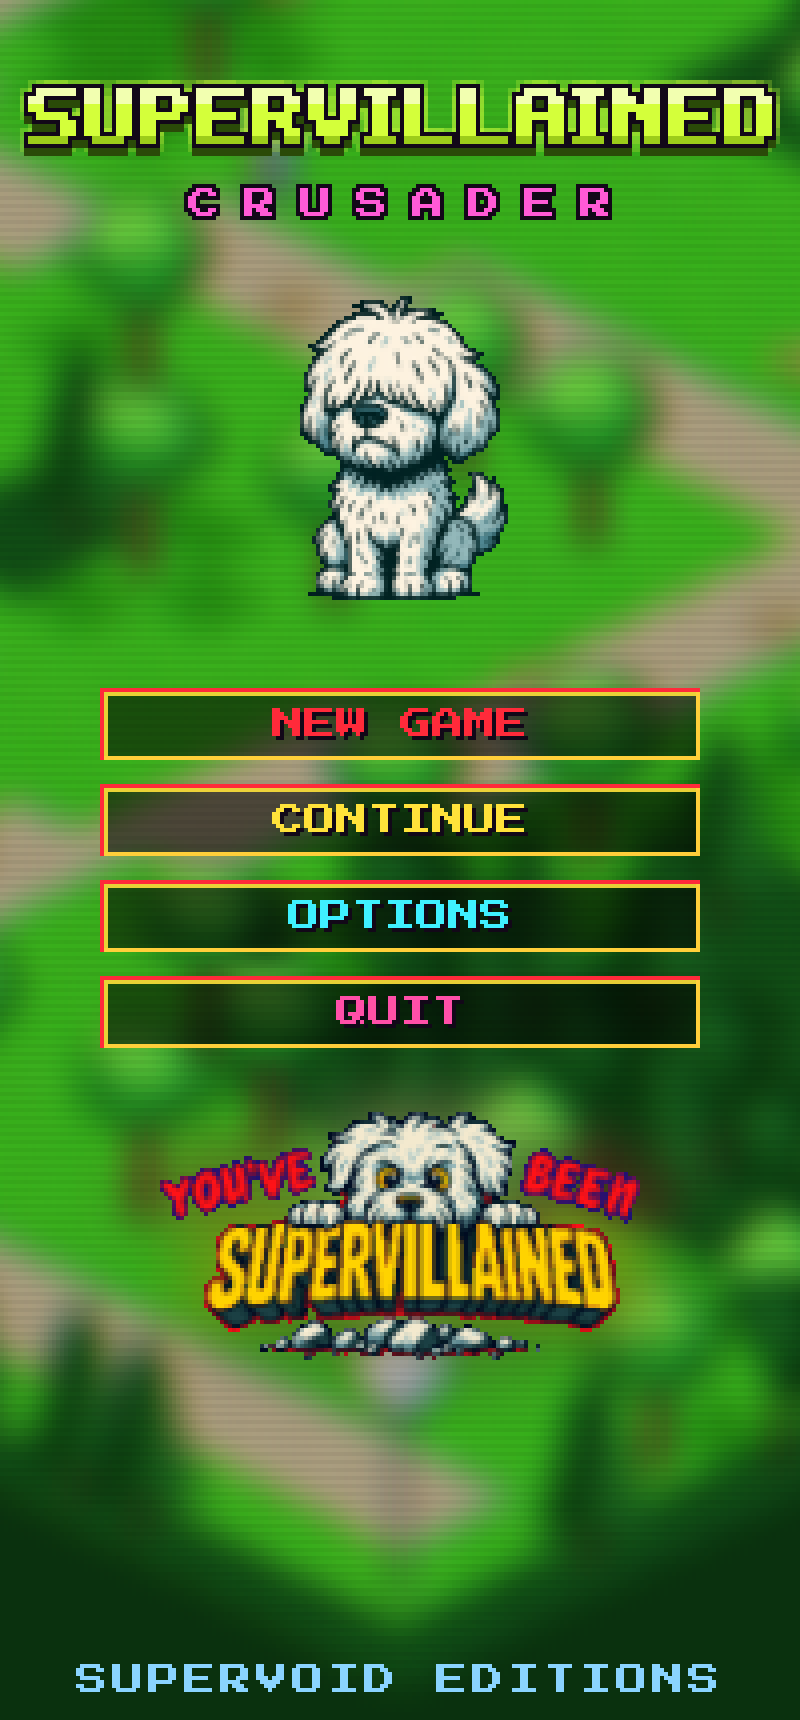
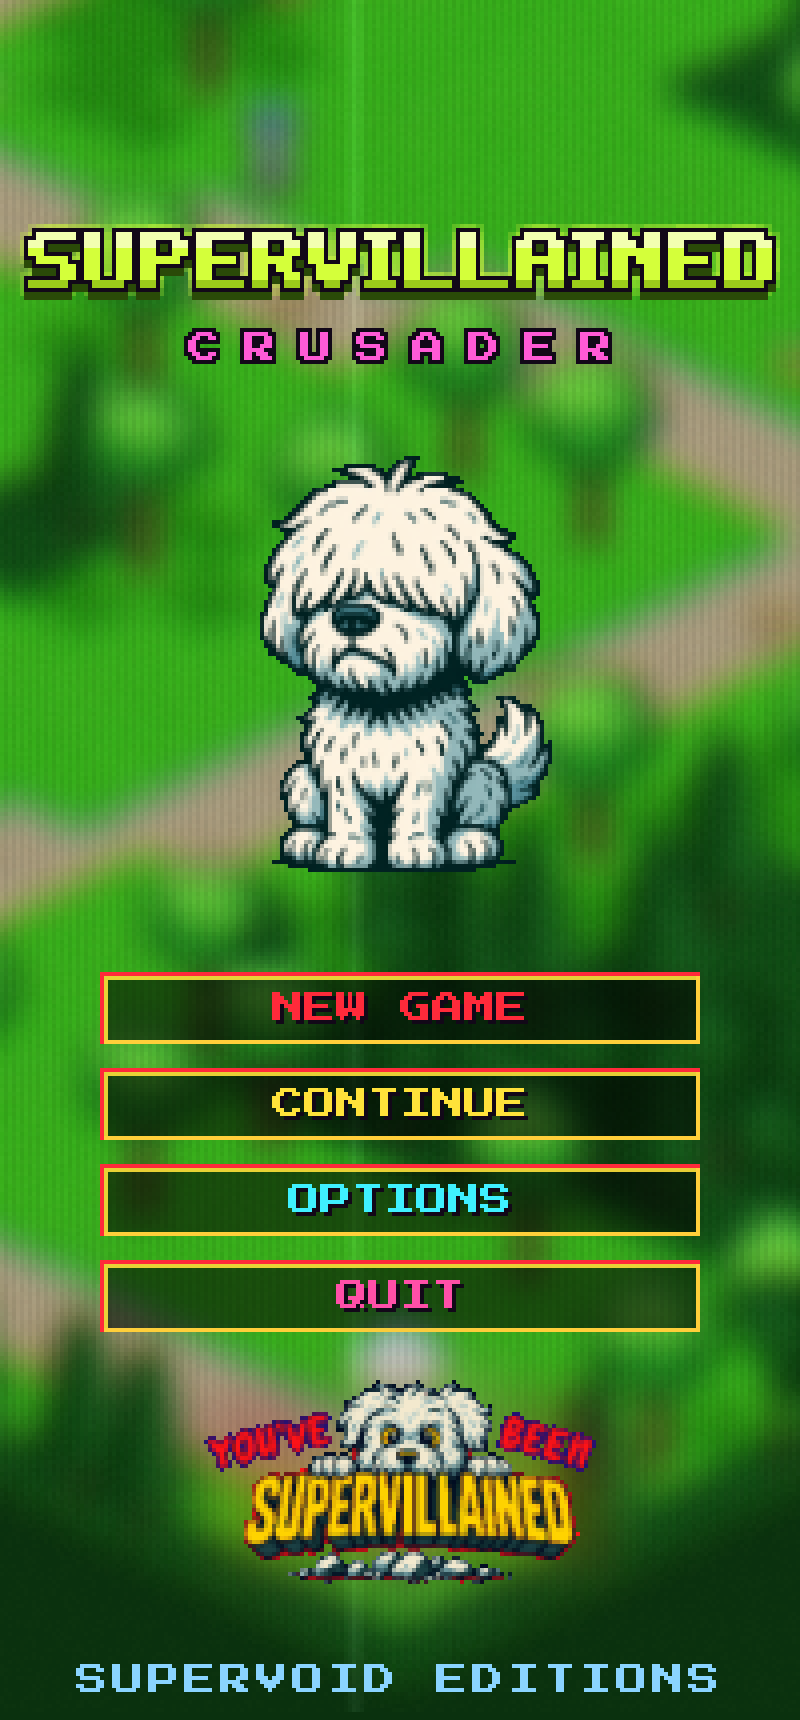
Title page: bigger portrait, lower stack, vertical glitch
Zampanò's portrait is bigger (46% of the width) and the "You've been
supervillained" logo smaller (50%); the whole stack is lowered into
most of the free space above SUPERVOID EDITIONS. The background gets
its own glitch filter, mostly vertical: columns tearing up and down, a
vertical colour split, rolling, tall corrupted blocks, sweeping
vertical bars and scanlines, a few horizontal tears; bursts flicker.

Claude-Session: https://claude.ai/code/session_01M83brc3uYNtkMe9oqkk4LQ

diff --git a/src/scenes/overlays.ts b/src/scenes/overlays.ts
@@ -1,6 +1,6 @@
 import { BlurFilter, Container, Graphics, Sprite } from 'pixi.js';
 import { TITLE } from '../config';
-import type { GlitchFilter } from '../fx/glitchFilter';
+import type { TitleGlitchFilter } from '../fx/titleGlitchFilter';
 import { loadTitleArt, titleTexture, type TitleArt } from '../ui/titleArt';
 import { textures } from '../core/assets';
 import type { Game } from '../core/game';
@@ -56,8 +56,8 @@ export interface TitleActions {
   quit: () => void;
   /** Where Continue goes ("LEVEL 3: 3.2 ..."), or null when there is no saved story. */
   continueLabel: string | null;
-  /** The background's glitch filter, animated by the title (bursts of slices and RGB split). */
-  glitch?: GlitchFilter;
+  /** The background's glitch filter, animated by the title (mostly vertical bursts). */
+  glitch?: TitleGlitchFilter;
 }
 
 /**
@@ -132,35 +132,47 @@ export class TitleScene extends Overlay {
       this.title.anchor.set(0.5);
     }
     const cx = Math.round(w / 2);
-    // From the top: the title, CRUSADER, the portrait, the buttons, where CONTINUE goes, the logo.
-    const top = Math.max(18, Math.round(h * 0.07));
-    this.title.position.set(cx, top);
-    const editionY = Math.round(top + this.title.height / 2 + 10);
-    this.edition.position.set(cx, editionY);
-    let y = editionY + 12;
+    // The stack, from the top: the title, CRUSADER, the portrait, the buttons, where CONTINUE goes,
+    // the logo. Laid out from y = 0, then lowered into most of the free space above the footer.
+    const halfTitle = Math.round(this.title.height / 2);
+    let y = halfTitle + Math.round(this.title.height / 2) + 10;
+    const editionY = y;
+    y += 12;
+    let dogY = y;
     if (this.art) {
       this.dog.texture = titleTexture(this.art.dog, Math.round(w * TITLE.DOG_WIDTH));
-      this.dog.position.set(cx, y);
-      y += this.dog.height + 8;
+      dogY = y;
+      y += this.dog.height + 6;
     }
-    this.menu.layout(w / 2, y);
-    y += this.menu.height + 6;
-    this.best.position.set(cx, y);
-    y += (this.actions.continueLabel ? this.best.textHeight : 0) + 8;
-    this.footer.position.set(cx, h - 6);
+    const menuY = y;
+    y += this.menu.height + 5;
+    const bestY = y;
+    y += (this.actions.continueLabel ? this.best.textHeight : 0) + 6;
+    const logoY = y;
+    const bottom = h - 16;
     if (this.art) {
-      // As wide as LOGO_WIDTH allows, but never down into SUPERVOID EDITIONS.
-      const room = h - 16 - y;
+      // LOGO_WIDTH wide, but never down into SUPERVOID EDITIONS.
       const a = this.art.logo;
+      const top0 = Math.max(18, halfTitle + 4);
+      const room = bottom - (top0 - halfTitle) - logoY;
       const lw = Math.max(40, Math.min(Math.round(w * TITLE.LOGO_WIDTH), Math.floor((room * a.naturalWidth) / a.naturalHeight)));
       const tex = titleTexture(a, lw);
       this.svLogo.texture = tex;
       this.svGlow.texture = tex;
-      this.svLogo.position.set(cx, y);
-      this.svGlow.position.set(cx, y);
-      this.svGlow.scale.set(TITLE.GLOW_SCALE);
-      this.svGlow.position.set(cx, Math.round(y - (this.svGlow.height - this.svLogo.height) / 2));
+      y += this.svLogo.height;
     }
+    const top0 = Math.max(18, halfTitle + 4);
+    const free = Math.max(0, bottom - (top0 - halfTitle) - y);
+    const off = top0 + Math.round(free * TITLE.LOWER);
+    this.title.position.set(cx, off);
+    this.edition.position.set(cx, off + editionY - halfTitle);
+    this.dog.position.set(cx, off + dogY - halfTitle);
+    this.menu.layout(w / 2, off + menuY - halfTitle);
+    this.best.position.set(cx, off + bestY - halfTitle);
+    this.svLogo.position.set(cx, off + logoY - halfTitle);
+    this.svGlow.scale.set(TITLE.GLOW_SCALE);
+    this.svGlow.position.set(cx, Math.round(off + logoY - halfTitle - (this.svGlow.height - this.svLogo.height) / 2));
+    this.footer.position.set(cx, h - 6);
   }
 
   override update(dt: number): void {
@@ -179,7 +191,7 @@ export class TitleScene extends Overlay {
     if (this.time > 0.6) this.menu.update(dt, this.game.input);
   }
 
-  /** The background glitches now and then: sliced, RGB-split, with faint scanlines in between. */
+  /** The background glitches now and then, mostly vertically, with a faint flicker in between. */
   private animateGlitch(dt: number): void {
     const f = this.actions.glitch;
     if (!f) return;
@@ -191,12 +203,9 @@ export class TitleScene extends Overlay {
       this.burstLeft = rnd(TITLE.GLITCH_TIME);
     }
     this.burstLeft -= dt;
-    const on = this.burstLeft > 0;
-    f.glitch = on ? TITLE.GLITCH_SLICES : 0;
-    f.rgb = on ? TITLE.GLITCH_RGB : TITLE.GLITCH_IDLE_RGB;
-    f.scanlines = 0.18;
-    f.sepia = 0;
-    f.flash = 0;
+    // A burst flickers: its strength jumps around while it lasts.
+    f.burst = this.burstLeft > 0 ? rnd(TITLE.GLITCH_BURST) : 0;
+    f.idle = TITLE.GLITCH_IDLE;
   }
 }
 

diff --git a/src/fx/titleGlitchFilter.ts b/src/fx/titleGlitchFilter.ts
@@ -1,0 +1,139 @@
+import { Filter, GlProgram, UniformGroup } from 'pixi.js';
+
+const vertex = `in vec2 aPosition;
+out vec2 vTextureCoord;
+
+uniform vec4 uInputSize;
+uniform vec4 uOutputFrame;
+uniform vec4 uOutputTexture;
+
+vec4 filterVertexPosition(void)
+{
+    vec2 position = aPosition * uOutputFrame.zw + uOutputFrame.xy;
+    position.x = position.x * (2.0 / uOutputTexture.x) - 1.0;
+    position.y = position.y * (2.0 * uOutputTexture.z / uOutputTexture.y) - uOutputTexture.z;
+    return vec4(position, 0.0, 1.0);
+}
+
+vec2 filterTextureCoord(void)
+{
+    return aPosition * (uOutputFrame.zw * uInputSize.zw);
+}
+
+void main(void)
+{
+    gl_Position = filterVertexPosition();
+    vTextureCoord = filterTextureCoord();
+}
+`;
+
+const fragment = `in vec2 vTextureCoord;
+out vec4 finalColor;
+
+uniform sampler2D uTexture;
+uniform highp vec4 uInputSize;
+uniform highp vec4 uInputClamp;
+uniform float uTime;
+uniform float uBurst;
+uniform float uIdle;
+
+float rand(vec2 co) {
+    return fract(sin(dot(co, vec2(12.9898, 78.233))) * 43758.5453);
+}
+
+vec4 sampleAt(vec2 uv) {
+    return texture(uTexture, clamp(uv, uInputClamp.xy, uInputClamp.zw));
+}
+
+void main(void)
+{
+    vec2 uv = vTextureCoord;
+    vec2 onePx = uInputSize.zw;
+    float px = uv.x * uInputSize.x;
+    float py = uv.y * uInputSize.y;
+    float tick = floor(uTime * 15.0);
+    float b = uBurst;
+
+    // 1. Vertical tearing: columns of varying width slide up and down (the main effect).
+    float colW = 2.0 + floor(rand(vec2(tick, 3.7)) * 9.0);
+    float column = floor(px / colW);
+    float vshift = 0.0;
+    if (rand(vec2(column, tick)) < b * 0.6 + uIdle * 0.03) {
+        vshift = (rand(vec2(column * 1.93, tick + 5.0)) - 0.5) * (14.0 + 70.0 * b);
+    }
+    // The whole picture rolls a little during a burst, like a losing vertical hold.
+    vshift += floor(sin(uTime * 37.0) * 3.0 * b);
+    uv.y += floor(vshift) * onePx.y;
+
+    // 2. A few horizontal tears (fewer and shorter than the vertical ones).
+    float row = floor(py / 3.0);
+    if (rand(vec2(row, tick + 11.0)) < b * 0.1) {
+        uv.x += floor((rand(vec2(row * 1.3, tick + 2.0)) - 0.5) * 18.0 * b) * onePx.x;
+    }
+
+    // 3. Vertical RGB split (red up, blue down), wider in a burst.
+    float split = floor(1.0 + uIdle + b * 4.0);
+    vec4 cg = sampleAt(uv);
+    float cr = sampleAt(uv - vec2(0.0, split * onePx.y)).r;
+    float cb = sampleAt(uv + vec2(onePx.x * floor(b * 2.0), split * onePx.y)).b;
+    vec3 col = vec3(cr, cg.g, cb);
+
+    // 4. Corrupted blocks: tall rectangles posterized, channel-swapped or sampled from elsewhere.
+    vec2 blk = floor(vec2(px / 10.0, py / 26.0));
+    float rb = rand(blk + vec2(tick * 0.37, tick));
+    if (rb < b * 0.09) {
+        vec3 far = sampleAt(uv + vec2(0.0, (rand(blk + 9.0) - 0.5) * 0.3)).rgb;
+        col = floor(far.bgr * 4.0) / 4.0;
+    }
+
+    // 5. Bright vertical bars sweeping across, and vertical scanlines.
+    float sweep = mod(uTime * 70.0, uInputSize.x + 60.0) - 30.0;
+    float bar = max(0.0, 1.0 - abs(px - sweep) / 3.0);
+    float bar2 = (rand(vec2(floor(px / 2.0), tick + 21.0)) < b * 0.05) ? 1.0 : 0.0;
+    col += (bar * (0.08 + 0.25 * b) + bar2 * 0.35) * vec3(0.8, 1.0, 0.9);
+    col *= 1.0 - (0.12 + 0.1 * b) * uIdle * mod(floor(px), 2.0);
+
+    // 6. A little static.
+    col += (rand(vec2(px, py) + uTime) - 0.5) * (0.04 * uIdle + 0.12 * b);
+
+    finalColor = vec4(clamp(col, 0.0, 1.0), cg.a);
+}
+`;
+
+/**
+ * The title page's background glitch: mostly vertical (columns tearing up and down, a vertical
+ * RGB split, rolling, tall corrupted blocks, vertical bars and scanlines), with a few horizontal
+ * tears. `burst` (0..1) is the strong effect, `idle` (0..1) the faint one in between.
+ */
+export class TitleGlitchFilter extends Filter {
+  private readonly u: UniformGroup<{
+    uTime: { value: number; type: 'f32' };
+    uBurst: { value: number; type: 'f32' };
+    uIdle: { value: number; type: 'f32' };
+  }>;
+
+  constructor() {
+    const u = new UniformGroup({
+      uTime: { value: 0, type: 'f32' },
+      uBurst: { value: 0, type: 'f32' },
+      uIdle: { value: 0, type: 'f32' },
+    });
+    super({
+      glProgram: GlProgram.from({ vertex, fragment, name: 'sv-title-glitch' }),
+      resources: { titleGlitchUniforms: u },
+      resolution: 1,
+      antialias: 'off',
+    });
+    this.u = u;
+  }
+
+  set time(v: number) {
+    this.u.uniforms.uTime = v;
+  }
+  set burst(v: number) {
+    this.u.uniforms.uBurst = v;
+  }
+  set idle(v: number) {
+    this.u.uniforms.uIdle = v;
+  }
+}

diff --git a/src/config.ts b/src/config.ts
@@ -81,22 +81,23 @@ export const ENERGY = {
 /** The title page (title art in assets/starting-page-images). */
 export const TITLE = {
   /** Zampanò's portrait over the buttons, as a fraction of the screen width. */
-  DOG_WIDTH: 1 / 3,
+  DOG_WIDTH: 0.46,
   /** The "You've been supervillained" logo under the buttons, as a fraction of the screen width. */
-  LOGO_WIDTH: 0.62,
+  LOGO_WIDTH: 0.5,
+  /** Share of the free space below the stack moved above it (lowers everything toward the footer). */
+  LOWER: 0.75,
   /** Glow behind the logo: alpha pulse (min, max) and its speed. */
   GLOW_ALPHA: [0.55, 1],
   GLOW_SPEED: 2.4,
   /** Glow size (scale of the blurred copy) and blur strength. */
   GLOW_SCALE: 1.1,
   GLOW_BLUR: 6,
-  /** Glitch burst strength: slice displacement and RGB split (with a faint split in between). */
-  GLITCH_SLICES: 0.9,
-  GLITCH_RGB: 4,
-  GLITCH_IDLE_RGB: 0.6,
+  /** Background glitch (mostly vertical): flickering burst strength [min, max], faint level in between. */
+  GLITCH_BURST: [0.45, 1],
+  GLITCH_IDLE: 0.45,
   /** Background glitch: a burst every [min, max] seconds, lasting [min, max] seconds. */
-  GLITCH_EVERY: [1.2, 3.4],
-  GLITCH_TIME: [0.08, 0.3],
+  GLITCH_EVERY: [0.9, 2.8],
+  GLITCH_TIME: [0.12, 0.45],
 } as const;
 
 export const INPUT = {

diff --git a/src/scenes/flow.ts b/src/scenes/flow.ts
@@ -21,7 +21,7 @@ import {
 import { StoryFlow } from '../story/storyFlow';
 import { BookScene } from '../story/screens';
 import { AUDIO } from '../config';
-import { GlitchFilter } from '../fx/glitchFilter';
+import { TitleGlitchFilter } from '../fx/titleGlitchFilter';
 import { quitApp } from '../core/native';
 
 /**
@@ -59,7 +59,7 @@ export class Flow {
     this.level = LEVELS[0]!;
     const scene = this.newGameScene();
     scene.active = false;
-    const glitch = new GlitchFilter();
+    const glitch = new TitleGlitchFilter();
     scene.worldRoot.filters = [this.blur, glitch];
     scene.hud.root.visible = false;
     this.game.scenes.replaceAll(scene);

diff --git a/DECISIONS.md b/DECISIONS.md
@@ -398,7 +398,10 @@ longer bullied in the Green Zone.
 - **Title page**: the SUPERVILLAINED logo and CRUSADER sit at the top; Zampanò's portrait
   (`assets/starting-page-images`) over the buttons, 1/3 of the screen wide; the "You've been
   supervillained" logo under them with a pulsing pale halo (an additive glow disappears on the
-  bright green); the blurred Green Zone behind glitches in bursts (the "under attack" filter).
+  bright green); the blurred Green Zone behind glitches in flickering bursts with its own, mostly vertical
+  filter (`fx/titleGlitchFilter.ts`: columns tearing up and down, a vertical RGB split, rolling,
+  tall corrupted blocks, sweeping vertical bars and scanlines, a few horizontal tears). The stack
+  is lowered into most of the free space above SUPERVOID EDITIONS (`TITLE.LOWER`).
   The pictures are scaled in the browser (step-by-step halving, crisp alpha) to the logical
   resolution, so they match the pixel art at any screen size.
 
